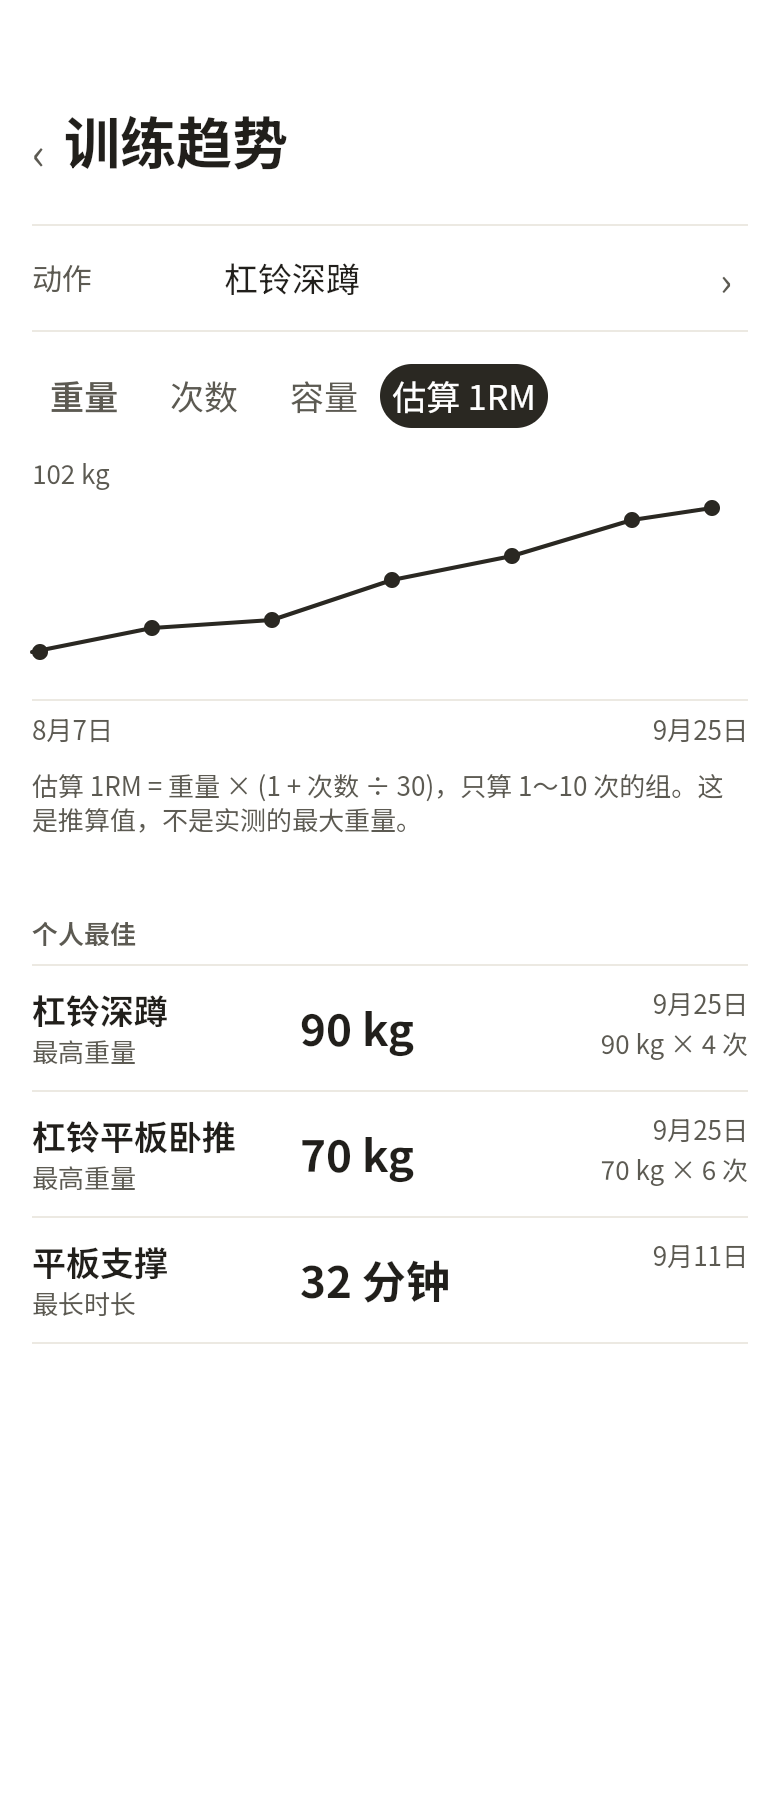
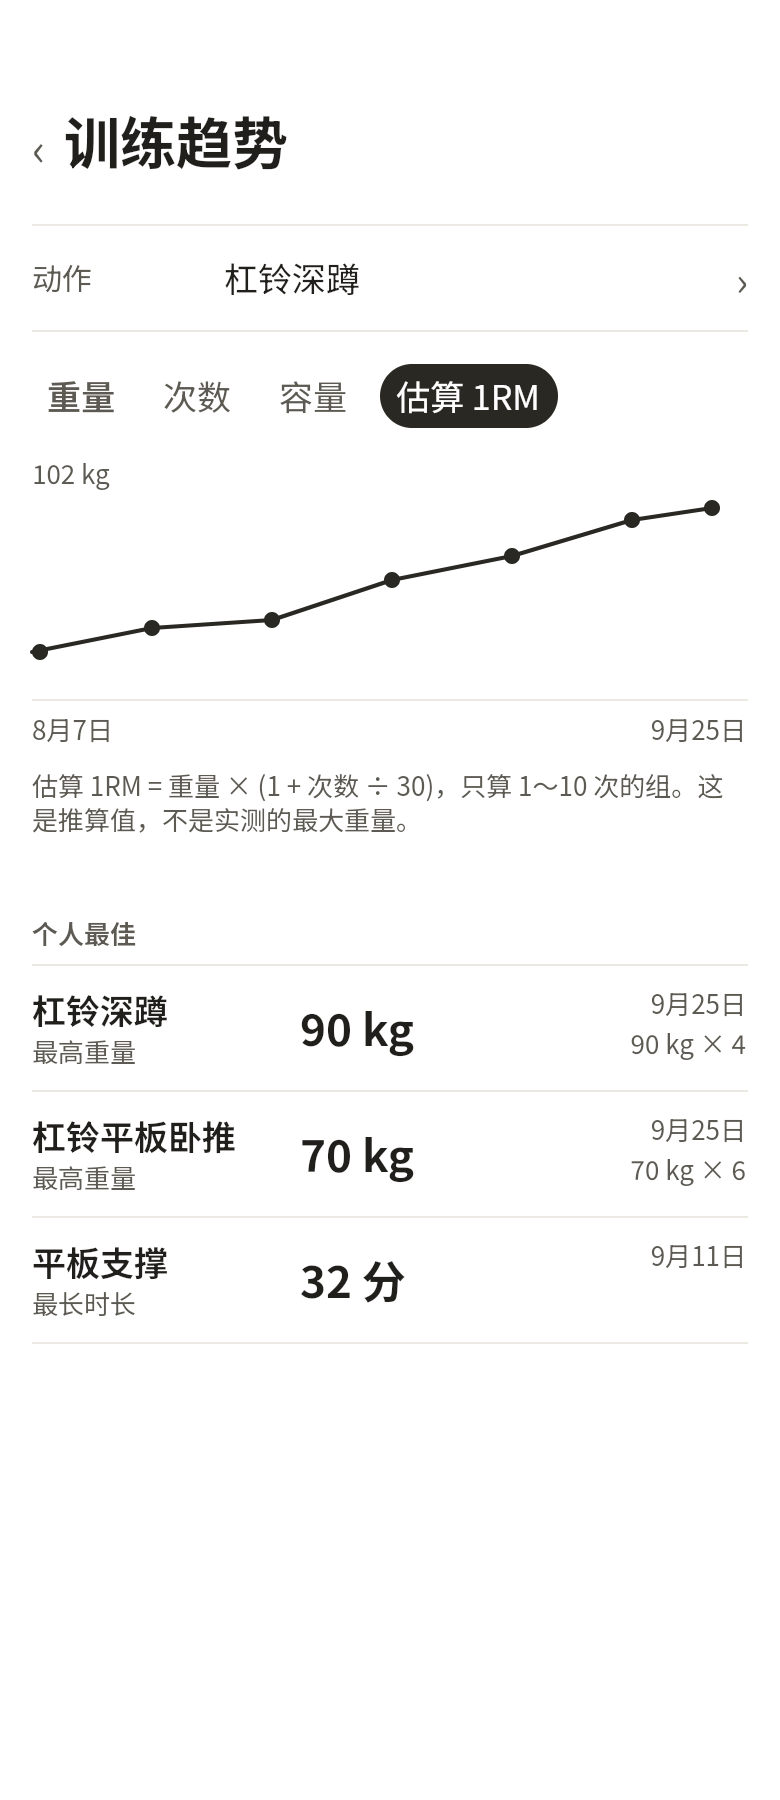
test(conformance): owner-approved exception entries for strict gates (S3-D12)
Adds ownerException to conformance map entries: decision id, reason, exempted checks and a delta cap. A row whose only failures are those checks within the cap is reported as OWNER_EXCEPTION, neither pass nor failure, and counts toward the manual-exception ratio. Existing maps carry no such field, so locked screens are unchanged. Approved by the product owner on 2026-11-20 for font-raster width differences.

diff --git a/android/app/src/test/java/com/ignacioli/finecoach/ConformanceComparison.kt b/android/app/src/test/java/com/ignacioli/finecoach/ConformanceComparison.kt
@@ -48,6 +48,7 @@ internal object ConformanceComparison {
             entry.optJSONObject("pendingBoardFix")?.let { fix ->
                 check(fix.optString("decision").startsWith("S1-D") && fix.optString("reason").isNotBlank()) { "pendingBoardFix needs a decision and reason at ${layer.getString("path")}" }
             }
+            entry.optJSONObject("ownerException")?.let { validateOwnerException(it, layer.getString("path")) }
             val expected = expectedBounds(layer, anchor, offset, entry)
             val row = JSONObject().put("path", layer.getString("path")).put("name", layer.getString("name")).put("layerType", layer.optString("type"))
                 .put("mapping", entry.getString("mapping")).put("anchor", anchor).put("toleranceDp", tolerance).put("topOriginApplied", anchor == "top")
@@ -127,6 +128,7 @@ internal object ConformanceComparison {
                 .put("reason", "不可观测标记前提不成立：本行选择器须命中父图标节点，且须为真实内部path、父group/icon几何通过、同名资产来源hash有效")
         }
         val iconPixels = ConformanceIconPixels.evaluate(layers, rowList, design, android)
+        applyOwnerExceptions(rowList, relative.getJSONArray("checks"))
         val missing = rowList.count { it.getString("status") == "MISSING" }
         val invisible = rowList.count { it.getString("category") == "INVISIBLE_OR_CLIPPED" }
         val uiDeviations = rowList.count { it.getString("category") == "UI_DEVIATION" }
@@ -134,6 +136,7 @@ internal object ConformanceComparison {
         val unobservable = rowList.count { it.getString("status") == "UNOBSERVABLE_VECTOR_INTERNAL" }
         val unobservableColor = rowList.count { it.getString("status") == "UNOBSERVABLE_COLOR" }
         val boardFixPending = rowList.count { it.getString("status") == "BOARD_FIX_PENDING" }
+        val ownerException = rowList.count { it.getString("status") == "OWNER_EXCEPTION" }
         check(design.width == android.width && design.height == android.height)
         val ssim = ConformanceSsim.compare(design, android)
         ImageIO.write(ssim.heatmap(), "png", File(out, "$screen.ssim-heatmap.png"))
@@ -166,14 +169,14 @@ internal object ConformanceComparison {
         ImageIO.write(triptych, "png", File(out, "$screen.triptych.png"))
         val top = rowList.filter { it.has("delta") && it.getString("category") == "UI_DEVIATION" }.sortedByDescending { row -> listOf("x", "y", "w", "h").maxOf { abs(row.getJSONObject("delta").getDouble(it)) } }.take(10)
         val invalidCapture = capture?.optString("status") == "INVALID_CAPTURE"
-        val manualExceptions = exceptions.count { e -> listOf("tag", "scope", "text", "commonLayoutParentOfTags", "anchor", "geometryRule").any(e::has) }
+        val manualExceptions = exceptions.count { e -> listOf("tag", "scope", "text", "commonLayoutParentOfTags", "anchor", "geometryRule", "ownerException").any(e::has) }
         val result = JSONObject().put("screen", screen).put("capture", capture ?: JSONObject.NULL).put("captureFailures", if (invalidCapture) 1 else 0)
             .put("outsideBoardLayers", exportedLayers.size - layers.size).put("partialVisibilityRule", "FULL_LAYOUT_GEOMETRY").put("colorTokenCount", tokens.size).put("colorTokenNames", JSONArray(tokens.map { it.name })).put("manualExceptionEntries", manualExceptions).put("manualExceptionRatio", manualExceptions.toDouble() / layers.size)
             .put("pendingBoardFixEntries", exceptions.count { it.has("pendingBoardFix") })
             .put("automaticMapped", rowList.count { it.getString("mapping").startsWith("AUTO") && it.has("actual") })
             .put("automaticMappingRate", rowList.count { it.getString("mapping").startsWith("AUTO") && it.has("actual") }.toDouble() / layers.size)
             .put("unmappedLayers", JSONArray(rowList.filter { !it.has("actual") }.map { JSONObject().put("path", it.getString("path")).put("name", it.getString("name")).put("reason", it.optString("reason")) }))
-            .put("artifactStatus", if (invalidCapture) "INVALID_CAPTURE" else "VALID_FIXTURE").put("invisible", invisible).put("uiDeviations", uiDeviations).put("total", rows.length()).put("passed", passed).put("failed", rows.length() - passed - unobservable - unobservableColor - boardFixPending).put("boardFixPending", boardFixPending).put("missing", missing)
+            .put("artifactStatus", if (invalidCapture) "INVALID_CAPTURE" else "VALID_FIXTURE").put("invisible", invisible).put("uiDeviations", uiDeviations).put("total", rows.length()).put("passed", passed).put("failed", rows.length() - passed - unobservable - unobservableColor - boardFixPending - ownerException).put("boardFixPending", boardFixPending).put("ownerException", ownerException).put("missing", missing)
             .put("unobservableVectorInternal", unobservable).put("unobservableColor", unobservableColor)
             .put("toleranceDp", tolerance).put("measuredContentTop", contentTop).put("effectiveOriginOffsetY", offset)
             .put("originReason", map.getString("originRule")).put("differentPixelRatio", different.toDouble() / (design.width.toLong() * design.height))
@@ -186,6 +189,72 @@ internal object ConformanceComparison {
         result.put("designPath", designPath)
         result.put("gatePassed", !invalidCapture && result.getInt("failed") == 0)
         return result
+    }
+
+    /** S3-D12. A registered difference is neither PASS nor a failure when every failed check is listed and within maxDeltaDp. */
+    internal fun validateOwnerException(spec: JSONObject, path: String) {
+        check(spec.optString("decision").matches(Regex("S\\d+-D\\d+"))) { "ownerException needs a decision at $path" }
+        check(spec.optString("reason").isNotBlank()) { "ownerException needs a reason at $path" }
+        val listed = spec.optJSONArray("checks")
+        check(listed != null && listed.length() > 0 && (0 until listed.length()).all { listed.optString(it).isNotBlank() }) { "ownerException needs checks at $path" }
+        check(spec.has("maxDeltaDp") && !spec.isNull("maxDeltaDp") && spec.optDouble("maxDeltaDp", -1.0) > 0.0) { "ownerException needs maxDeltaDp at $path" }
+    }
+
+    internal fun applyOwnerExceptions(rows: List<JSONObject>, checks: JSONArray) {
+        val byPath = rows.associateBy { it.getString("path") }
+        rows.forEach { row -> row.optJSONObject("selector")?.optJSONObject("ownerException")?.let { validateOwnerException(it, row.getString("path")) } }
+        for (row in rows) {
+            val spec = row.optJSONObject("selector")?.optJSONObject("ownerException") ?: continue
+            val status = row.optString("status")
+            if (status != "PASS" && status != "FAIL") continue
+            val failed = row.optJSONArray("failedChecks")?.let { names -> (0 until names.length()).map { names.getString(it) } }.orEmpty()
+            if (failed.isEmpty() && status == "PASS") {
+                row.put("ownerExceptionUnused", true)
+                val note = "例外登记未被使用"
+                row.put("reason", row.optString("reason").ifBlank { note }.let { if (it.contains(note)) it else "$it；$note" })
+                continue
+            }
+            if (status != "FAIL" || !exempt(row.getString("path"), failed, spec, byPath, checks)) continue
+            row.put("status", "OWNER_EXCEPTION").put("category", "OWNER_EXCEPTION").put("ownerException", spec)
+                .put("reason", "${spec.getString("decision")}：${spec.getString("reason")}")
+        }
+    }
+
+    private fun exempt(path: String, failed: List<String>, spec: JSONObject, byPath: Map<String, JSONObject>, checks: JSONArray): Boolean {
+        val allowed = spec.getJSONArray("checks").let { names -> (0 until names.length()).map { names.getString(it) }.toSet() }
+        val maxDelta = spec.getDouble("maxDeltaDp")
+        return failed.all { kind ->
+            if (kind !in allowed) return@all false
+            val related = checks.objects().filter { it.optString("check") == kind && it.has("passed") && !it.optBoolean("passed") && membersOf(it).contains(path) }
+            related.isNotEmpty() && related.all { check ->
+                val deltas = roundedDeltas(check)
+                deltas.isNotEmpty() && deltas.all { abs(it) <= maxDelta } && membersOf(check).all { member ->
+                    val other = byPath[member]?.optJSONObject("selector")?.optJSONObject("ownerException") ?: return@all false
+                    val otherChecks = other.optJSONArray("checks") ?: return@all false
+                    (0 until otherChecks.length()).any { otherChecks.optString(it) == kind } &&
+                        deltas.all { abs(it) <= other.optDouble("maxDeltaDp", 0.0) }
+                }
+            }
+        }
+    }
+
+    private fun membersOf(check: JSONObject): List<String> =
+        check.optJSONArray("members")?.let { names -> (0 until names.length()).map { names.getString(it) } }.orEmpty()
+
+    private fun roundedDeltas(node: Any?): List<Double> {
+        val found = mutableListOf<Double>()
+        fun walk(value: Any?) {
+            when (value) {
+                is JSONObject -> {
+                    if (value.has("roundedDelta") && !value.isNull("roundedDelta")) found += value.getDouble("roundedDelta")
+                    val keys = value.keys()
+                    while (keys.hasNext()) walk(value.opt(keys.next()))
+                }
+                is JSONArray -> for (index in 0 until value.length()) walk(value.opt(index))
+            }
+        }
+        walk(node)
+        return found
     }
 
     /** Both rows must have observed a node, and it must be the same node (same id). */
@@ -390,6 +459,16 @@ internal object ConformanceComparison {
                 }
             }
             appendLine("\n画板待改（已登记，S1-D42）：${result.optInt("boardFixPending")}，不计入PASS或偏差；画板修正并重新导出后撤掉登记。")
+            val ownerRows = rows.filter { it.optString("status") == "OWNER_EXCEPTION" }
+            val unusedExceptions = rows.filter { it.optBoolean("ownerExceptionUnused") }
+            if (ownerRows.isNotEmpty() || unusedExceptions.isNotEmpty()) {
+                appendLine("\n负责人批准的例外：${ownerRows.size}，不计入 PASS 或失败。")
+                ownerRows.forEach { row ->
+                    val spec = row.getJSONObject("ownerException")
+                    appendLine("- ${row.getString("path")} ${spec.getString("decision")}：${spec.getString("reason")}")
+                }
+                unusedExceptions.forEach { appendLine("- ${it.getString("path")} 例外登记未被使用") }
+            }
             appendLine("\n不可观测（矢量内部）：${result.getInt("unobservableVectorInternal")}，不计入PASS或偏差。仅父图标几何通过且同名资产来源hash验证通过时成立（S1-D37）。")
             appendLine("\noriginOffsetY=${result.getDouble("effectiveOriginOffsetY")}；Android content top=${result.getDouble("measuredContentTop")}；${result.getString("originReason")}")
             result.optJSONObject("stability")?.let { appendLine("\n双次 fresh Room/composition 渲染：$it") }

diff --git a/android/app/src/test/java/com/ignacioli/finecoach/ConformanceComparisonTests.kt b/android/app/src/test/java/com/ignacioli/finecoach/ConformanceComparisonTests.kt
@@ -231,4 +231,91 @@ class ConformanceComparisonTests {
         assertFalse(ConformanceComparison.geometry(rect(0.0,0.0,91.0,20.0), design,"top",0.0).getBoolean("matches"))
         assertFalse(ConformanceComparison.geometry(rect(0.0,0.0,102.5,20.0), rect(0.0,0.0,100.0,20.0),"top",0.0).getBoolean("matches"))
     }
+
+    private fun placed(path: String, x: Double, y: Double, w: Double, h: Double, dx: Double = 0.0, dy: Double = 0.0, dw: Double = 0.0): JSONObject {
+        fun box(x: Double, y: Double, w: Double, h: Double) = JSONObject().put("x", x).put("y", y).put("w", w).put("h", h)
+        return JSONObject().put("path", path).put("selector", JSONObject()).put("category", "PASS").put("textMatches", true).put("tokenMatches", true)
+            .put("delta", box(dx, dy, dw, 0.0)).put("geometry", JSONObject().put("expectedBounds", box(x, y, w, h)).put("actualBounds", box(x + dx, y + dy, w + dw, h)))
+    }
+
+    private fun grant(row: JSONObject, checks: List<String>, maxDeltaDp: Double) {
+        row.getJSONObject("selector").put("ownerException", JSONObject()
+            .put("decision", "S3-D12").put("reason", "fictional raster width")
+            .put("checks", JSONArray(checks)).put("maxDeltaDp", maxDeltaDp))
+    }
+
+    private fun apply(rows: List<JSONObject>) {
+        val checks = ConformanceRelativeGeometry.evaluate(rows).getJSONArray("checks")
+        ConformanceComparison.applyOwnerExceptions(rows, checks)
+    }
+
+    @Test fun ownerExceptionCoversAListedCheckInsideTheDeltaCap() {
+        val row = placed("12", 0.0, 0.0, 40.0, 10.0, dw = 3.0)
+        grant(row, listOf("SIZE"), 4.0)
+        apply(listOf(row))
+        assertEquals("OWNER_EXCEPTION", row.getString("status"))
+        assertEquals("S3-D12", row.getJSONObject("ownerException").getString("decision"))
+        assertFalse(row.optBoolean("ownerExceptionUnused"))
+    }
+
+    @Test fun ownerExceptionStaysFailWhenAnotherCheckFails() {
+        val left = placed("12", 0.0, 0.0, 40.0, 10.0, dw = -2.0)
+        val right = placed("13", 50.0, 0.0, 10.0, 10.0, dx = 2.0)
+        grant(left, listOf("GAP"), 4.0)
+        grant(right, listOf("GAP"), 4.0)
+        val checks = ConformanceRelativeGeometry.evaluate(listOf(left, right)).getJSONArray("checks")
+        left.getJSONArray("failedChecks").put("ICON_PIXELS")
+        ConformanceComparison.applyOwnerExceptions(listOf(left, right), checks)
+        assertEquals("FAIL", left.getString("status"))
+        assertEquals("OWNER_EXCEPTION", right.getString("status"))
+    }
+
+    @Test fun ownerExceptionStaysFailWhenTheDeltaExceedsTheCap() {
+        val left = placed("12", 0.0, 0.0, 40.0, 10.0, dw = -2.0)
+        val right = placed("13", 50.0, 0.0, 10.0, 10.0, dx = 2.0)
+        grant(left, listOf("GAP"), 3.0)
+        grant(right, listOf("GAP"), 3.0)
+        apply(listOf(left, right))
+        assertEquals("FAIL", left.getString("status"))
+        assertEquals("FAIL", right.getString("status"))
+    }
+
+    @Test fun ownerExceptionNotesAnUnusedRegistrationWhenTheRowPasses() {
+        val row = placed("12", 0.0, 0.0, 40.0, 10.0)
+        grant(row, listOf("GAP"), 4.0)
+        apply(listOf(row))
+        assertEquals("PASS", row.getString("status"))
+        assertTrue(row.getBoolean("ownerExceptionUnused"))
+        assertTrue(row.getString("reason").contains("例外登记未被使用"))
+    }
+
+    @Test fun ownerExceptionRejectsAnIncompleteRegistration() {
+        val row = placed("12", 0.0, 0.0, 40.0, 10.0, dw = 3.0)
+        val cases = listOf(
+            JSONObject().put("decision", "board").put("reason", "because").put("checks", JSONArray(listOf("SIZE"))).put("maxDeltaDp", 4),
+            JSONObject().put("decision", "S3-D12").put("reason", " ").put("checks", JSONArray(listOf("SIZE"))).put("maxDeltaDp", 4),
+            JSONObject().put("decision", "S3-D12").put("reason", "because").put("checks", JSONArray()).put("maxDeltaDp", 4),
+            JSONObject().put("decision", "S3-D12").put("reason", "because").put("checks", JSONArray(listOf("SIZE"))),
+            JSONObject().put("decision", "S3-D12").put("reason", "because").put("checks", JSONArray(listOf("SIZE"))).put("maxDeltaDp", 0),
+        )
+        for (spec in cases) {
+            row.getJSONObject("selector").put("ownerException", spec)
+            val error = runCatching { ConformanceComparison.applyOwnerExceptions(listOf(row), JSONArray()) }.exceptionOrNull()
+            assertTrue(spec.toString(), error is IllegalStateException)
+            assertTrue(error?.message, error?.message?.contains("12") == true)
+        }
+    }
+
+    @Test fun ownerExceptionNeedsBothSidesOfAGap() {
+        val left = placed("12", 0.0, 0.0, 40.0, 10.0, dw = -2.0)
+        val right = placed("13", 50.0, 0.0, 10.0, 10.0, dx = 2.0)
+        grant(left, listOf("GAP"), 4.0)
+        apply(listOf(left, right))
+        assertEquals("FAIL", left.getString("status"))
+        assertEquals("FAIL", right.getString("status"))
+        grant(right, listOf("GAP"), 4.0)
+        apply(listOf(left, right))
+        assertEquals("OWNER_EXCEPTION", left.getString("status"))
+        assertEquals("OWNER_EXCEPTION", right.getString("status"))
+    }
 }

diff --git a/android/docs/s3/T002.md b/android/docs/s3/T002.md
@@ -20,10 +20,10 @@ Penpot 文件「M1-B G5 Design」。画板名（可在图层面板搜索「S3 ·
 |---|---|
[8 lines of base64/hex data omitted]
 
 `*.map.json` 由 Phase 4/5 实现各核心屏时与 conformance 测试一起建立（同 S1、S2）。
 
@@ -35,3 +35,11 @@ Penpot 文件「M1-B G5 Design」。画板名（可在图层面板搜索「S3 ·
 ## 状态
 
 负责人 2026-11-20「按建议通过」（S3-D03）：三张派生画板通过；学员详情恢复「下一节课」行；训练趋势按画板（M2-15 结构 + E-c），无顶层三段，课程比较入口在训练历史，spec FR-008 同步修正。T002 完成。
+
+## S3-D08 修订（2026-11-20）训练趋势画板
+- 负责人批准「按建议改画板」：组详情改为 `90 kg × 4`、`70 kg × 6`，时长改为 `32 分`，与 App 现有格式一致（训练页组行、历史都不带「次」「钟」）。
+- 9 个固定宽度文字框改成随文字自动变宽：标题、动作名保持左边缘，右列的日期和组详情保持右边缘 374。
+- Penpot 快照：`before S3-D08 trends board text + auto-width 2026-11-20` → `S3-D08 trends board: app text format + auto-width text frames 2026-11-20`；导出后看了一次渲染。PNG 与 layers 的哈希已在上表更新。
+- S3-D09（同日）：分段控件按 DS-SEGMENTED 规范改：3 个未选中文字改为 auto-width，居中放在 x=16、74、132 的 50pt 选项框里；选中胶囊宽度 = 文字宽 + 2×`space.2`（89），x=190。依据是 S1-D70 的先例：画板向组件规范对齐。快照：`before S3-D09 …` → `S3-D09 trends segmented …`。哈希已更新。
+- S3-D10（同日）：Back 与行尾箭头按已批准的学员详情画板（26）的画法改：Back 6.5×26，位于 (16, 59.75)；箭头 6×24，x=368。快照：`before S3-D10 …` → `S3-D10 trends back/chevron per approved 26 board 2026-11-20`。Penpot 刷新后重新导出（120632 字节，中文渲染正常），哈希已更新。
+- S3-D11（同日）：图表组「Trend chart (M1 TrendsView)」原来的范围是 (16, 230) 358×140，盖住了同级的「102 kg」标签（y 228～245）和两个日期（y 356～373）。门禁的像素比对按这个组的范围裁切，于是文字字形也被算进了图表的 IoU。现把无填充的 `base-background` 改为绘图区 (16, 246) 358×104：顶部是标签下方 `space.4`，底边是 y=350 的轴线。标签和日期都在组外，PNG 与改前逐字节相同，只回填了 layers 中 11 和 11/0 两层的几何。离线复算：只裁绘图区时 IoU 为 0.84（阈值 0.7）。快照：`before S3-D11 …` → `S3-D11 trends chart group = plot area …`。

diff --git a/android/docs/page-implementation-contract.md b/android/docs/page-implementation-contract.md
@@ -47,7 +47,17 @@
 ## 4. 完成标志（每个核心屏）
 
 1. 设计图层全部映射，没有 MISSING；尺寸、相邻间距、包含内边距与对齐的 Δ 取最近 0.25dp 后比较 ±2dp，绝对坐标 ±8dp 粗界限、颜色精确（S1-D55/D56），适用图标 ICON_PIXELS（S1-D59）全部通过，failed 0。
-2. 手写例外（manual selector、anchor、geometryRule、pendingBoardFix）≤10%（S1-D44）。超出的部分要么是设计稿待改项，要么就是 UI 没按 §3 的约定挂 tag，后者要修。
+2. 手写例外（manual selector、anchor、geometryRule、pendingBoardFix、ownerException）≤10%（S1-D44）。超出的部分要么是设计稿待改项，要么就是 UI 没按 §3 的约定挂 tag，后者要修。
+
+`pendingBoardFix`（S1-D42）只表示画板待改：决策编号必须是 `S1-D`，几何通过后状态是 `BOARD_FIX_PENDING`，不算 PASS，也不算失败。
+
+`ownerException`（S3-D12）表示负责人已经批准的差异，不是画板待改。map 条目可选：
+
+```json
+"ownerException": { "decision": "S3-D12", "reason": "…", "checks": ["GAP"], "maxDeltaDp": 4 }
+```
+
+`decision` 必须匹配 `S<n>-D<n>`，`reason` 和 `checks` 不能空，`maxDeltaDp` 必须大于 0，否则比较器按该层路径抛出错误。只有失败的检查全部在 `checks` 里、并且每一项取整后的 |Δ| 不超过 `maxDeltaDp` 时，状态才是 `OWNER_EXCEPTION`（不算 PASS，也不算失败，报告单独列出决策编号和原因）。还有别的检查失败，或 |Δ| 超过上限，仍是 FAIL。GAP 这类两层检查要两层都登记才豁免。该行全部通过时保持 PASS，并注明「例外登记未被使用」。登记计入上面的 10% 手工例外。容差、取整、锚点和 ICON_PIXELS 阈值不变。
 3. 功能测试、G3、G4、全量宿主门禁全绿；Compose UI 测试覆盖入口与布局（改动数据的控件可见、可点，不能只靠长按；该占满宽度的控件宽度等于父容器）。
 4. 三联图和 SSIM 热力图已生成。SSIM **不是门禁**（S1-D45），只用来帮人在走查时定位问题。
 5. 执行记录里有入口与布局映射表（`components.md` §1.4）。
